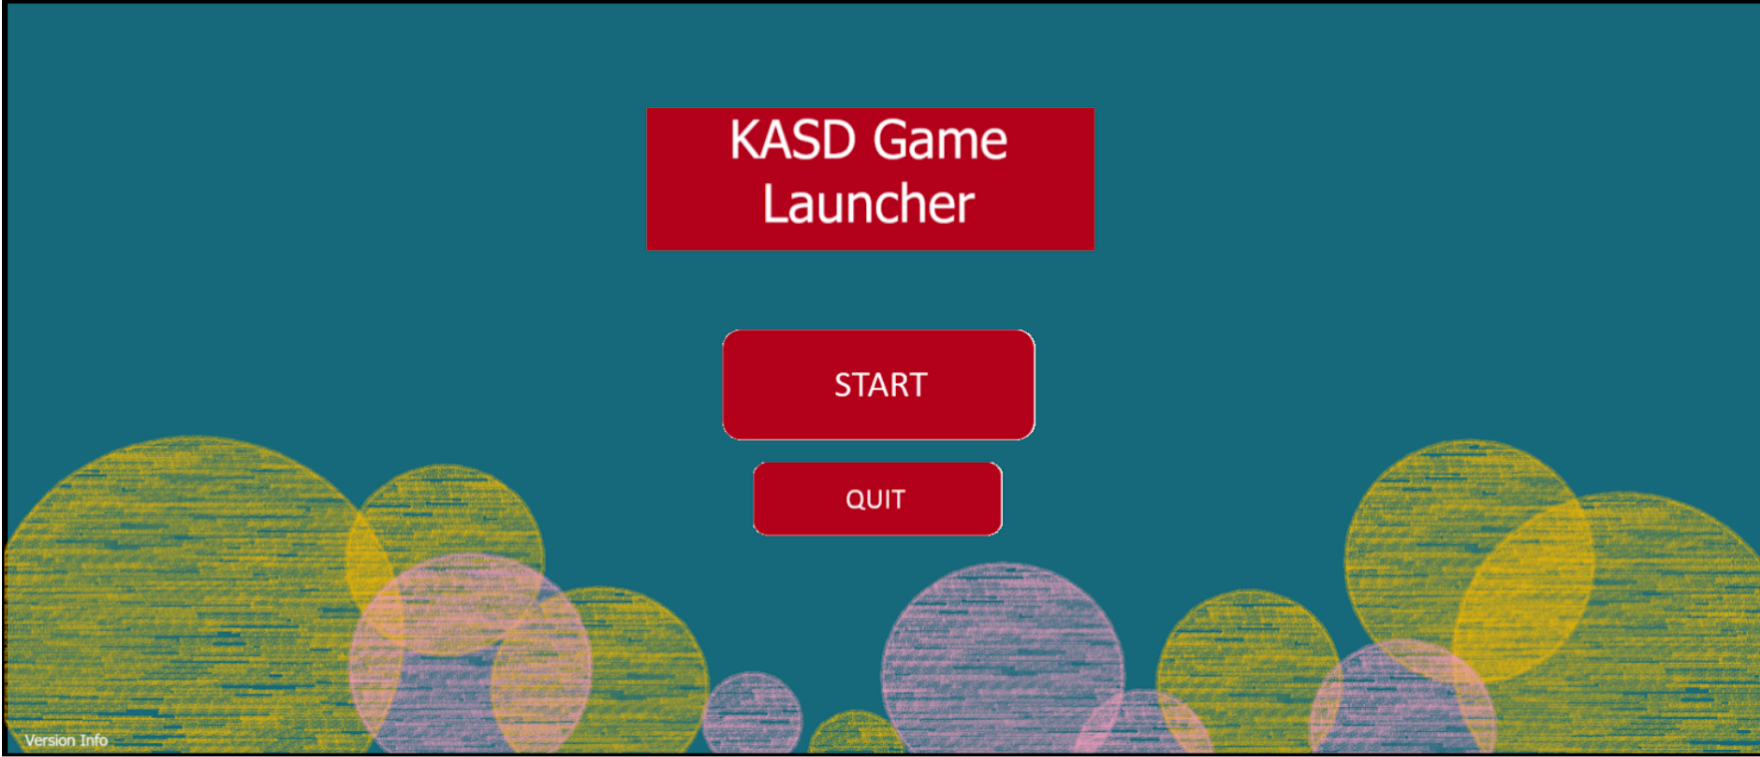
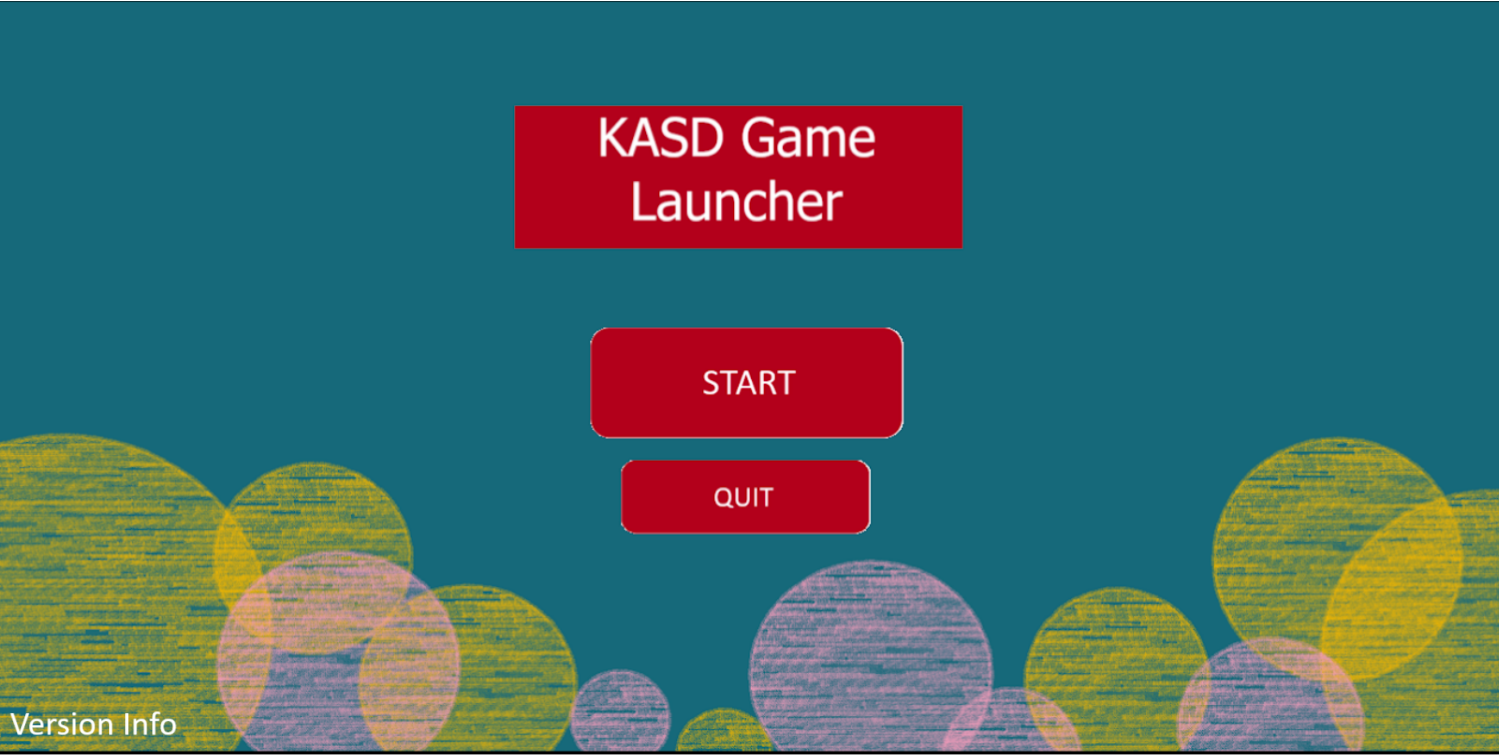
set the main menu.py file to display the background image

diff --git a/main_menu/main_menu.py b/main_menu/main_menu.py
@@ -5,9 +5,12 @@ import pygame
 pygame.init()
 
 screen_width = 1500
-screen_height = 820
+screen_height = 754
 
 screen = pygame.display.set_mode((screen_width, screen_height))
+
+main_menu_bg_img = pygame.image.load('main_menu_assets\main background.png')
+#imports the background image (yes i drew it in Ms paint sue me)
 
 runtime = 1
 #gameloop runtime variable
@@ -19,6 +22,8 @@ while runtime == 1:
         if event.type == pygame.QUIT:
             runtime = 0
     #exit code definition
+            
+    screen.blit(main_menu_bg_img, (0, 0))
     
     pygame.display.update()
     #screen upkeep
